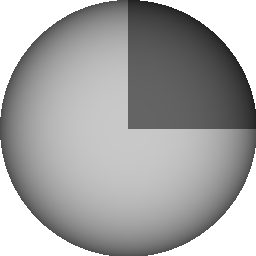
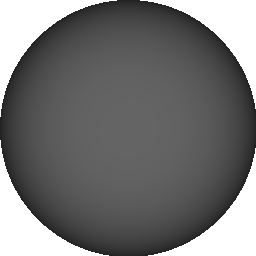
changed target amount and reward

diff --git a/src/configuration/create_img.py b/src/configuration/create_img.py
@@ -1,5 +1,4 @@
 from PIL import Image, ImageDraw
-from backend.ant_kind import AntKind
 import os
 
 import conf
@@ -49,15 +48,16 @@ def draw_shared_circ(fraction,
     im.save(output_folder_path + f'/{img_folder}circ_{name_index}.png', quality=100)
     name_index += 1
 
-for kind in AntKind:
-    print(kind)
 
-for i in range(1, 4):
+_low_coop = int(conf.coop_reward * conf.coop_split)
+_high_coop = int(conf.coop_reward * (1 - conf.coop_split))
+
+for i in range(_low_coop - 1, _low_coop + 2):
     draw_shared_circ(i/16.)
-for i in range(13, 16):
+for i in range(_high_coop - 1, _high_coop + 2):
     draw_shared_circ(i/16.)
-for i in range(4, 7):
-    draw_shared_circ(i/16., col_0=conf.competitive_reward_color, col_1=conf.ant_base_color)
+for _ in range(conf.comp_reward - 1, conf.comp_reward + 2):
+    draw_shared_circ(1., col_0=conf.competitive_reward_color, col_1=conf.ant_base_color)
 
 name_index = 0
 
@@ -85,8 +85,6 @@ def create_target_indicators(black=conf.border_black, folder=paths.image_folder)
     for i in [0, 1]:  # Create target indicators
         draw.ellipse((0, 0, conf.ant_img_size, conf.ant_img_size),
                      fill=conf.player_colors[i])
-        #draw.ellipse((margin/2, margin/2, conf.ant_img_size - margin/2, conf.ant_img_size - margin/2),
-        #             fill=black)
         draw.ellipse((margin, margin, conf.ant_img_size - margin, conf.ant_img_size - margin),
                      fill=0)
         im.save(output_folder_path + f'/{folder}target_indicator_{i}.png', quality=100)

diff --git a/src/configuration/conf.py b/src/configuration/conf.py
@@ -1,23 +1,35 @@
 # Game config
-ant_amount = 6
-ant_radius = 50
+#ant_amount = 6
+coop_reward = 16
+coop_split = 1/8
+comp_reward = 16
+
+#from backend.ant_kind import AntKind
+
+#ant_kinds = [AntKind.SHARED_2,
+#             AntKind.SHARED_14,
+#             AntKind.COMPETITIVE_5]
+ant_kinds = [1, 4, 7]
+
+ant_amount = len(ant_kinds)
+ant_radius = 70
 #velocity = 3
 #velocity = 2
 velocity = 1.5
 #time_to_occupy = .5
 time_to_occupy = 1
 occupied_animation_time = .3  # should be < time_to_occupy
-ant_movement = True
-ant_disappearance = True
+ant_movement = False
 
+ant_disappearance = False
 ant_lifetime = 5
 
 #time_before_round = 2
 time_before_round = 5
 
 pos_updates_ps = 60
-#lap_time = 20  # for mouse control
-lap_time = 5 * 60
+#lap_time = 5 * 60
+lap_time = 1 * 60
 simultaneous_games = 1
 laps_to_play = 1
 
@@ -40,7 +52,8 @@ reward_label_size = 20
 countdown_font_size = 64
 popup_font_size = 42
 #score_chart_max_score = 1./time_to_occupy * lap_time * 8 * 1/2  # 8 is the average reward for cooperation, 1/3 is random
-score_chart_max_score = 1./time_to_occupy * lap_time * 8 / 8 # * 1/8  # 8 is the average reward for cooperation, 1/3 is random
+#score_chart_max_score = 1./time_to_occupy * lap_time * 8 / 8 # * 1/8  # 8 is the average reward for cooperation, 1/3 is random
+score_chart_max_score = -1 # disabled
 #player_radius = 10
 player_radius = 20
 target_opacity = 255

diff --git a/src/backend/lap_coordinator.py b/src/backend/lap_coordinator.py
@@ -48,7 +48,9 @@ class LapCoordinator:
 
     def _run(self):
         output_folder = data_depositor.create_parallel_game_folder()
-        summed_scores = [0] * conf.simultaneous_games * 2
+        p_amount = conf.simultaneous_games * 2
+        summed_scores = [0 for _ in range(p_amount)]
+        laps_won = [0 for _ in range(p_amount)]
         for lap, lc in enumerate(lap_constellations()):
             if lap >= conf.laps_to_play:
                 break
@@ -63,9 +65,15 @@ class LapCoordinator:
                 p0_score, p1_score = match.get_score()
                 summed_scores[match.p0_idx] += p0_score
                 summed_scores[match.p1_idx] += p1_score
+                if p0_score > p1_score:
+                    laps_won[match.p0_idx] += 1
+                else:
+                    laps_won[match.p1_idx] += 1
             self._matches = []
-        for i in range(len(summed_scores)):
-            print(f'player {i}\'s score: {summed_scores[i]}')
+        for p in range(p_amount):
+            print(f'player {p}\'s summed score: {summed_scores[p]}')
+        for p in range(p_amount):
+            print(f'player {p} won {laps_won[p]} laps')
         self._send_msg(b'Recording session ended successfully')
 
     def _run_lap(self):

diff --git a/src/backend/ant_kind.py b/src/backend/ant_kind.py
@@ -1,5 +1,9 @@
 from enum import IntEnum
 from random import randint
+import configuration.conf as conf
+
+_high_coop = int(conf.coop_reward * (1 - conf.coop_split))
+_low_coop = int(conf.coop_reward * conf.coop_split)
 
 
 class AntKind(IntEnum):
@@ -29,21 +33,21 @@ def is_shared(ant_kind):
 
 def get_score(kind):
     if kind == AntKind.SHARED_1:
-        return 1, 15
+        return _low_coop - 1, _high_coop + 1
     elif kind == AntKind.SHARED_2:
-        return 2, 14
+        return _low_coop, _high_coop
     elif kind == AntKind.SHARED_3:
-        return 3, 13
+        return _low_coop + 1, _high_coop - 1
     elif kind == AntKind.SHARED_13:
-        return 13, 3
+        return _high_coop + 1, _low_coop - 1
     elif kind == AntKind.SHARED_14:
-        return 14, 2
+        return _high_coop, _low_coop
     elif kind == AntKind.SHARED_15:
-        return 15, 1
+        return _high_coop - 1, _low_coop + 1
     elif kind == AntKind.COMPETITIVE_4:
-        return 4
+        return 16
     elif kind == AntKind.COMPETITIVE_5:
-        return 5
+        return 16
     elif kind == AntKind.COMPETITIVE_6:
-        return 6
+        return 16
 

diff --git a/src/backend/engine.py b/src/backend/engine.py
@@ -46,7 +46,7 @@ class Engine:
         self._pos = np.full((conf.ant_amount, 2), np.nan, dtype='float64')
         self._vel = np.full((conf.ant_amount, 2), np.nan, dtype='float64')
         # idx 0,1 coop_p1, idx 2,3 coop_p0, idx 4,5 comp
-        self._kinds = [0, 0, 3, 3, 6, 6]  # will be overridden
+        self._kinds = conf.ant_kinds
         for i in range(conf.ant_amount):
             self._replace_ant(i)
 

diff --git a/src/client.py b/src/client.py
@@ -100,7 +100,6 @@ class UdpClient(DatagramProtocol):
         reactor.callLater(.2, self._check_if_ui_exits)
 
     def _send_pos(self, pos):
-        print(len(pos))
         self._send((*pos, int(self._ping), self._ui.get_scale_factor()))
 
     def _request_ping(self, dx):
